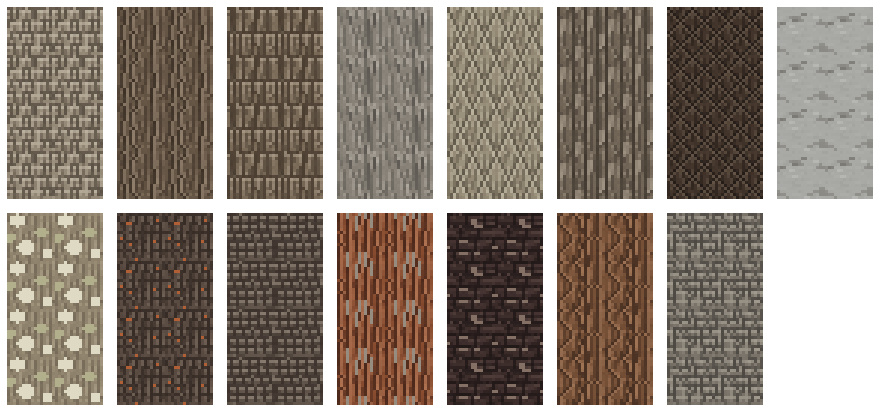
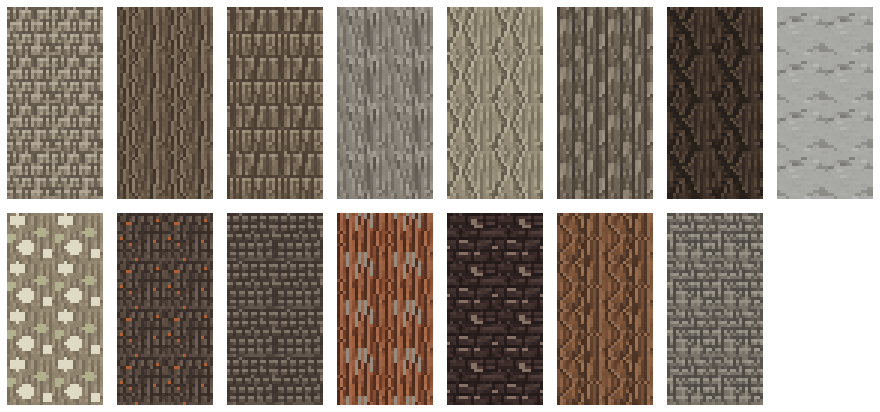
Bark: tulip poplar and black walnut get interlacing furrows instead of a lattice
Neighbouring furrows swing toward each other and apart in opposite phase, stepping sideways every other
row, so the ridges between them form long lens-shaped diamonds that meet and part (one row of diamonds per
block). Poplar: fine furrows, pale ridges. Walnut: the same net with deep, doubled, rougher furrows.

Claude-Session: https://claude.ai/code/session_01M5QtgiQGYPBXfdb72XCowG

Changed region(s): [[0.4909, 0.0291, 0.6443, 0.4951], [0.7364, 0.0, 0.8591, 0.4951]]

diff --git a/tools/bark.py b/tools/bark.py
@@ -77,6 +77,32 @@ def diamonds(period=8, slope=2, light=True):
             elif light and (a == 1 or b == period - 1): g[y][x] = "L"
     return g
 
+def braided(r, n, seg=(3, 5), wide=0.0, ridge=0.7, broken=0.0):
+    """Interlacing furrows. Neighbours swing toward each other and apart in opposite phase, so between them the bark
+    rises into long lens-shaped ridges that meet and part like a stretched net (no neat lattice). Each furrow steps
+    sideways only every other row, runs out and back by the same amount, and so returns to where it started (no seam).
+    {@code wide}: chance a furrow row is doubled. {@code ridge}: chance of a lit pixel on a ridge's crest.
+    {@code broken}: chance a furrow pixel is skipped (rougher bark)."""
+    g = grid(); spacing = 16 // n
+    a = r.randint(*seg); b = 8 - a
+    for i in range(n):
+        runs = [(a, 1), (a, -1), (b, 1), (b, -1)] if b else [(a, 1), (a, -1)]
+        moves = [d if k % 2 == 0 else 0 for length, d in runs for k in range(length)]
+        phase = r.randrange(2)                                         # neighbours mirror each other (below): they meet
+        moves = moves[phase:] + moves[:phase]
+        if i % 2: moves = [-m for m in moves]
+        x = i * spacing
+        for y in range(16):
+            if r.random() >= broken:
+                g[y][x % 16] = "D"
+                if r.random() < wide: g[y][(x + (moves[y] or (1 if i % 2 == 0 else -1))) % 16] = "D"   # thicken outward
+            x += moves[y]
+    for y in range(16):                                                 # crests: halfway between furrows, lit
+        row = [x for x in range(16) if g[y][x] == "D"]
+        for x in range(16):
+            if g[y][x] == "." and g[y][(x - 1) % 16] == "D" and r.random() < ridge: g[y][x] = "L"
+    return g
+
 def plates(r, w, h, jitter=1, edge="L"):
     """Rows of plates with dark joints, each row offset (dogwood's small squares, buckeye and white oak's scales)."""
     g = grid()
@@ -159,9 +185,10 @@ def pattern(sp, r):
     if sp == "red_oak": return furrows(r, (1, 6, 11), wobble=0.5)                               # long flat pale ridges
     if sp == "sugar_maple": return merge(plates(r, 4, 8, jitter=2), furrows(r, (2, 10), wobble=0.4, light_side=False))
     if sp == "red_maple": return merge(flecks(r, 5, "D", (3, 6)), flecks(r, 6, "L", (2, 4)))     # smooth, a few cracks
-    if sp == "tulip_poplar": return diamonds(8, 2)          # (16 / slope) must be a multiple of period, or it seams
+    if sp == "tulip_poplar": return braided(r, 2, seg=(8, 8), wide=0.25, ridge=0.9)                      # long, neat diamonds, pale ridges
     if sp == "shagbark_hickory": return strips(r, (0, 5, 9, 13), peel=5)
-    if sp == "black_walnut": return diamonds(8, 1)          # dark, rough, wide diamonds
+    if sp == "black_walnut": return merge(braided(r, 2, seg=(8, 8), wide=0.85, ridge=0.7, broken=0.04),
+                                          flecks(r, 6, "D", (2, 3)))                                       # deep, wide, rugged furrows
     if sp == "american_beech": return merge(flecks(r, 4, "L", (2, 3), horizontal=True), flecks(r, 3, "D", (2, 2), horizontal=True))
     if sp == "sycamore": return blotches(r, ((3, 2, 2.3, "A"), (11, 6, 1.8, "B"), (6, 11, 2.6, "A"), (13, 13, 1.4, "A"), (1, 8, 1.2, "B")))
     if sp == "eastern_redbud": return merge(plates(r, 3, 3, jitter=4, edge=None), flecks(r, 7, "A"))   # fine scales, orange in the cracks
